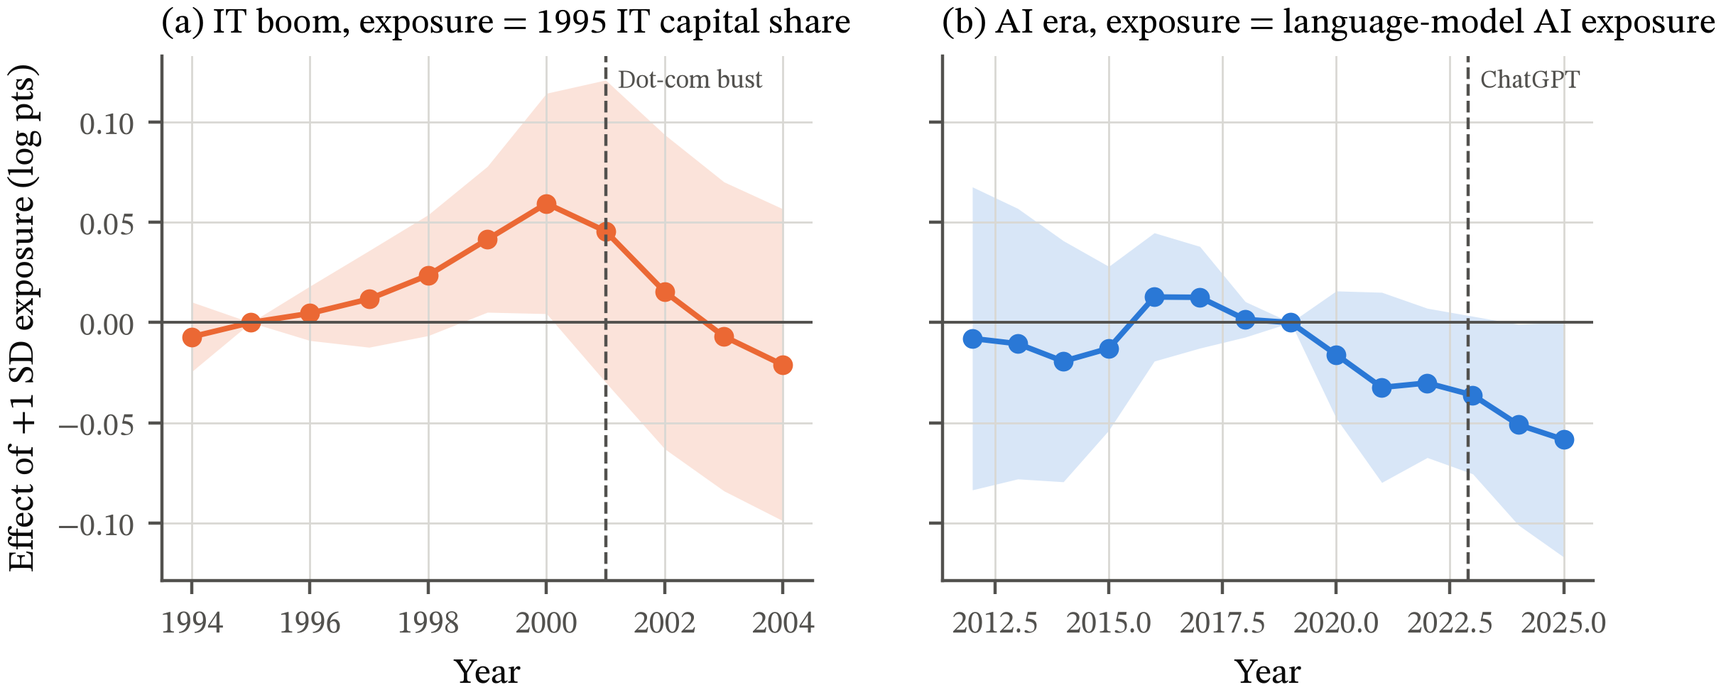
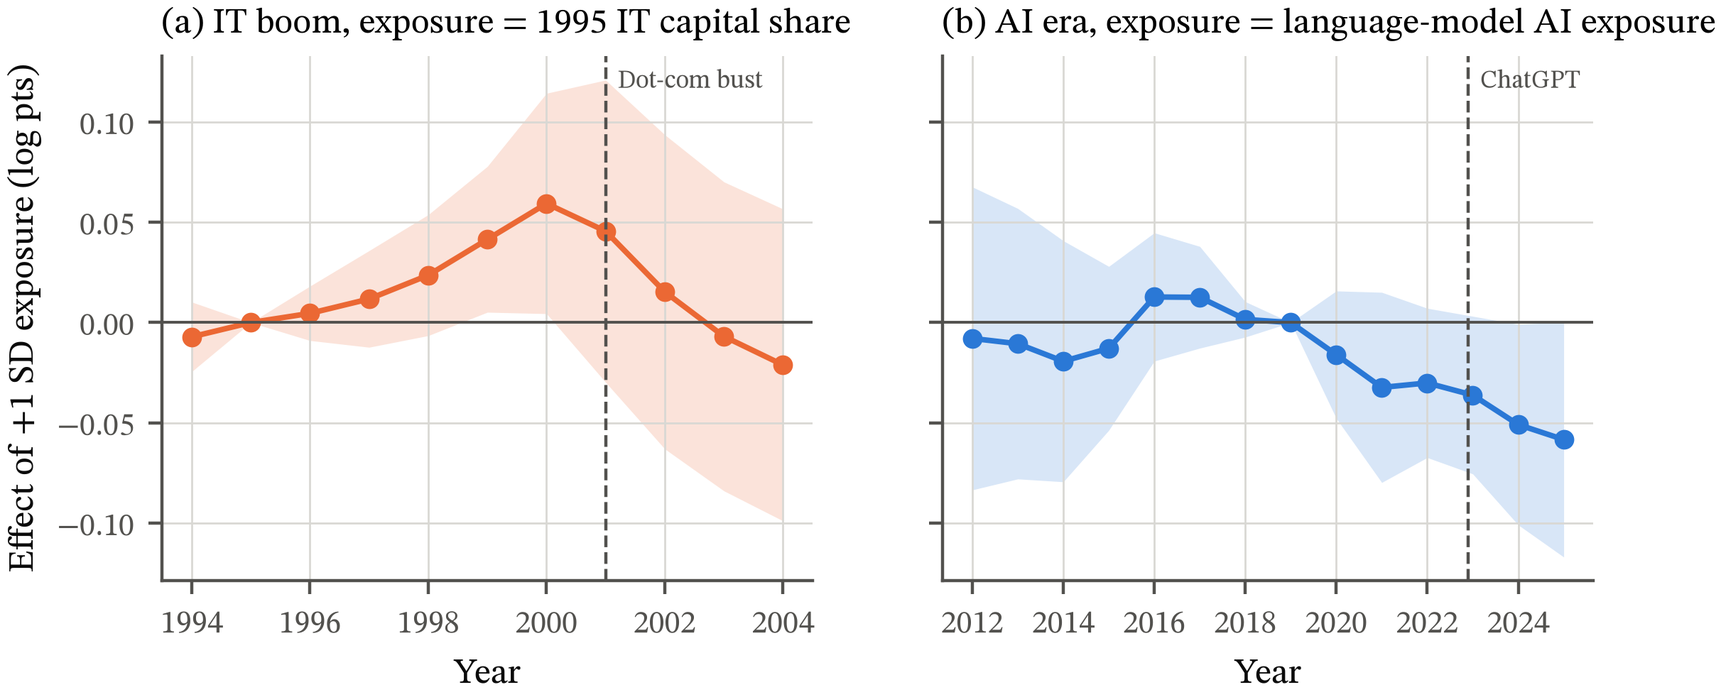
Correct the C3 reading, report both kink specifications, remove sizing look-ahead
- C3: add labor-share level DiD and a year-by-year event study; the
  change-based estimate is driven by a 2021-22 spike unwinding, so the paper
  now treats incidence as inconclusive and leads with the junior-hiring result
- Kink table shows the main (COVID dropped) and linear-through-COVID
  specifications side by side
- Bayesian sizing holds a zero position until 12 months are observed
  instead of using the full-sample variance
- Abstract, summary, results and conclusion reworded to match; integer
  year ticks on event-study figures

Changed region(s): [[0.5572, 0.8248, 0.9286, 0.9165]]

diff --git a/paper/sections/05_results.tex b/paper/sections/05_results.tex
@@ -1,7 +1,7 @@
 \section{Results}
 \label{sec:results}
 
-Table~\ref{tab:did} reports every estimate of~\eqref{eq:did}; Figure~\ref{fig:claims} plots the three headline coefficients side by side for the two eras. The short version: the AI era looks nothing like the IT boom in the labor data, and the difference points to substitution.
+Table~\ref{tab:did} reports every estimate of~\eqref{eq:did}; Figure~\ref{fig:claims} plots the three headline coefficients side by side for the two eras. The short version: the AI era looks nothing like the IT boom in hiring, and the difference points to substitution at the entry margin; whether the gain reaches shareholders is not yet visible.
 
 \begin{table}[t]
 \caption{Difference-in-differences estimates of~\eqref{eq:did}. Each coefficient is the change in the outcome during the era, relative to baseline, for a sector one standard deviation more exposed. Standard errors are clustered by sector; $p_{\text{boot}}$ is from the wild cluster bootstrap (Webb weights, 1,999 replications). C1 and C3: 13 sectors, annual. C2: 19 sectors, quarterly.}
@@ -18,7 +18,7 @@ Table~\ref{tab:did} reports every estimate of~\eqref{eq:did}; Figure~\ref{fig:cl
 
 \subsection{C1: no productivity acceleration yet}
 
-Output per hour did not accelerate faster in AI-exposed sectors. The AI-era coefficient is $-0.26$ percentage points per year per standard deviation, with a standard error of 1.42 and a bootstrap $p$ of 0.96. In the IT boom the estimate is $+0.49$, positive as \citet{stiroh2002it} found but imprecise with 13 sectors ($p=0.26$). We read the AI-era null with care. It is a statement about measured output: when a firm buys an AI service, the purchase is an intermediate input and is subtracted from the firm's value added (Assignment~1, Question~1). A firm that uses AI to replace a junior analyst may produce the same output with fewer hours, which raises output per hour, or the same hours with a higher bill for purchased services, which does not. Measured productivity in the user industry then understates the gain, which is consistent with the J-curve argument of \citet{brynjolfsson2021jcurve}. Our earlier descriptive table, which suggested a white-collar productivity surge, did not survive the switch to all-employee hours and the inclusion of time effects; we discarded it.
+Output per hour did not accelerate faster in AI-exposed sectors. The AI-era coefficient is $-0.26$ percentage points per year per standard deviation, with a standard error of 1.42 and a bootstrap $p$ of 0.96. In the IT boom the estimate is $+0.49$, positive as \citet{stiroh2002it} found but imprecise with 13 sectors ($p=0.26$). We read the AI-era null with care. It is a statement about measured output: when a firm buys an AI service, the purchase is an intermediate input and is subtracted from the firm's value added (Assignment~1, Question~1). A firm that uses AI to replace a junior analyst may produce the same output with fewer hours, which raises output per hour, or the same hours with a higher bill for purchased services, which does not. Measured productivity in the user industry then understates the gain, which is consistent with the J-curve argument of \citet{brynjolfsson2021jcurve}. Raw comparisons of white-collar productivity growth before and after 2022 do suggest an acceleration, but they rely on nonsupervisory hours and on aggregate time effects; once all-employee hours and period fixed effects are used, the gradient disappears.
 
 \subsection{C2: the missing juniors}
 
@@ -34,27 +34,34 @@ The clearest result is in employment by age. In the AI era, a sector one standar
 Timing matters for attribution, and Figure~\ref{fig:eventstudy} shows it. Panel (b) is flat from 2012 to 2019, so exposed sectors were not already shedding juniors. The decline starts in 2020, before ChatGPT, and continues through 2025. Panel (a) is a useful warning: in the IT boom, juniors in IT-intensive sectors gained through 2000 and lost those gains in the dot-com bust. Junior employment is cyclical; a hiring freeze in rate-sensitive sectors can look like technology.
 
 \begin{table}[t]
-\caption{Did the trend bend at ChatGPT? Each row is a term interacted with standardized AI exposure; COVID years (2020--2021) are dropped. The junior gap regression controls for sector size. Bootstrap $p$-values as in Table~\ref{tab:did}.}
+\caption{Did the trend bend at ChatGPT? Each row is a term interacted with standardized AI exposure. ``COVID dropped'' (main specification) excludes 2020--2021 and allows a pre-existing trend, a post-COVID level shift and a post-ChatGPT change in slope. ``Linear'' keeps 2020--2021 and fits one slope from 2020 plus a post-ChatGPT change. Junior-gap regressions control for sector size. Bootstrap $p$-values as in Table~\ref{tab:did}.}
 \label{tab:kink}
 \inserttable{tab_kink}
 \end{table}
 
-Table~\ref{tab:kink} separates the two stories. With COVID years dropped, exposed sectors show no pre-existing trend (0.0002 per year), a post-COVID level drop of 5.6 log points ($p<0.01$), and an \emph{additional} decline of 1.2 log points per year after ChatGPT ($p=0.01$). The level shift is consistent with remote work and the 2022 hiring freeze; the post-ChatGPT slope is what a substitution story predicts. This conclusion depends on how the COVID years are handled: an earlier specification that fitted a straight line through 2020--2022 averaged the crash and recovery into a single slope and found no post-ChatGPT kink. We report both, and treat the kink as suggestive rather than settled.
+Table~\ref{tab:kink} tries to separate the two stories, and the answer depends on the specification. In our main specification, which drops the COVID years as every other estimate in this paper does, exposed sectors show no pre-existing trend (0.0002 per year), a post-COVID level drop of 5.6 log points ($p<0.01$), and an \emph{additional} decline of 1.2 log points per year after ChatGPT ($p=0.01$). The level shift is most of the effect, and we cannot attribute it: remote work, the 2022 hiring freeze in rate-sensitive sectors, and early automation all fit. The post-ChatGPT slope is what a substitution story predicts. Our first specification, however, kept the COVID years and fitted a single slope from 2020; it averages the crash and recovery of Figure~\ref{fig:raw-junior} into one line and finds the opposite, a post-ChatGPT \emph{flattening} (+1.6 log points per year, $p=0.09$). We prefer the main specification because the V-shape is plainly not linear, but we chose it after seeing the first, so we treat the ChatGPT kink as suggestive rather than settled.
 
 Total employment tells a different story from employment by age. Across 91 detailed CES industries, AI exposure predicts no change in total employment: no level shift, no kink (Table~\ref{tab:kink}, right columns; Figure~\ref{fig:detailed} in the appendix). AI is not, so far, reducing headcount in exposed industries; it is changing who is hired.
 
-\subsection{C3: who gets paid}
+\subsection{C3: who gets paid, not yet visible}
 
-The labor share answers the incidence question. In the AI era, a sector one standard deviation more exposed saw its labor share fall by 0.81 percentage points per year relative to baseline (bootstrap $p<0.01$); in the IT boom the estimate is zero (0.006, $p=0.99$). Because finance has by far the highest exposure, and its margins rose with interest rates in 2023--24 for reasons unrelated to AI, we re-estimate the model dropping one sector at a time. The coefficient stays between $-0.61$ (without finance) and $-0.85$, and every bootstrap $p$ stays below 0.01. Value-added prices in exposed sectors did not fall relative to others (+2.2 pp per year, $p=0.26$), so the gain was not passed on to consumers.
+The labor share should answer the incidence question; on current data it does not. Measured as annual \emph{changes}, the result looks strong: in the AI era a sector one standard deviation more exposed saw its labor share fall by 0.81 percentage points per year relative to baseline (bootstrap $p<0.01$), the coefficient stays between $-0.61$ and $-0.85$ when any single sector is dropped, and the IT-era estimate is zero. Measured in \emph{levels}, the result disappears ($-0.47$ pp, $p=0.83$; Table~\ref{tab:did}). Figure~\ref{fig:c3event} shows why. Exposed sectors' labor share drifted down relative to others before 2019, jumped by about 2 percentage points in 2021--22, and has since fallen back to roughly its 2019 level ($-0.6$ pp in 2025, well within the confidence band). The negative changes after 2022 are mostly that spike unwinding. Value-added prices in exposed sectors did not fall relative to others (+2.2 pp per year, $p=0.26$), so there is no sign that a gain was passed to consumers either; there is simply no clear gain yet.
+
+\begin{figure}[t]
+  \centering
+  \includegraphics[width=0.55\textwidth]{fig10_labor_share_event_study.png}
+  \caption{Event study of the labor share level on AI exposure: the effect of one standard deviation of exposure in each year relative to 2019, in percentage points, with 95\% intervals. 2020--2022 are included here to show the COVID spike that drives the change-based estimate.}
+  \label{fig:c3event}
+\end{figure}
 
 \subsection{Reading the three together}
 
-The pieces fit one story. AI-exposed sectors are hiring fewer juniors, are not shrinking overall, are not (yet) producing measurably more per hour, and are paying a smaller share of their value added to labor. That is substitution at the entry margin, with the gain accruing to capital: the routine tasks of junior staff are being done by purchased AI services and by the seniors who remain. The IT boom, by contrast, looked like complementarity. For an investor this is a cash-flow signal (margins in exposed sectors should be higher than their measured productivity suggests), which brings us to whether prices reflect it.
+AI-exposed sectors are hiring fewer juniors, are not shrinking overall, and are not (yet) producing measurably more per hour; whether they are paying a smaller share of value added to labor cannot be told apart from the unwinding of a COVID-era spike. The hiring pattern is what substitution at the entry margin predicts: the codified tasks of junior staff may be done by purchased AI services and by the seniors who remain. These are associations across 13 to 19 sectors, though, and other explanations remain open. Rate-sensitive sectors froze graduate hiring in 2022--23 for reasons unrelated to AI, and a falling labor share with flat productivity and rising prices could equally reflect rising markups and pricing power \citep{autor2020superstar}. The IT boom, by contrast, looked like complementarity. For an investor, the hiring data are an early, slow signal about cash flows that the BEA data have not yet confirmed, which brings us to whether prices reflect it.
 
 \subsection{Pooling the IT prior with AI-era evidence}
 \label{sec:bayes}
 
-How much should the IT boom inform our reading of AI? We treat the IT-era estimate as a prior for the AI-era coefficient, $\beta_{AI} \sim N(\hat\beta_{IT}, \mathrm{se}_{IT}^2 + \tau^2)$, where $\tau$ measures how different we allow AI to be, and update with the AI-era estimate. Figure~\ref{fig:bayes} traces the posterior as $\tau$ widens. For C3 the AI data dominate even at $\tau=0$: the posterior mean is $-0.70$, because the AI-era estimate is far more precise than the prior. For C2 the conclusion depends on beliefs: if AI is assumed identical to IT the posterior is centered near zero, but once $\tau$ reaches the AI-era standard error the probability that the effect is negative rises to 0.95. For C1 neither era is informative.
+How much should the IT boom inform our reading of AI? We treat the IT-era estimate as a prior for the AI-era coefficient, $\beta_{AI} \sim N(\hat\beta_{IT}, \mathrm{se}_{IT}^2 + \tau^2)$, where $\tau$ measures how different we allow AI to be, and update with the AI-era estimate. Figure~\ref{fig:bayes} traces the posterior as $\tau$ widens. For C3 (in changes) the AI data dominate even at $\tau=0$: the posterior mean is $-0.70$, because the AI-era estimate is far more precise than the prior; given Figure~\ref{fig:c3event}, this precision overstates what we know, and pooling cannot correct a specification problem. For C2 the conclusion depends on beliefs: if AI is assumed identical to IT the posterior is centered near zero, but once $\tau$ reaches the AI-era standard error the probability that the effect is negative rises to 0.95. For C1 neither era is informative.
 
 \begin{figure}[t]
   \centering

diff --git a/paper/sections/06_forward.tex b/paper/sections/06_forward.tex
@@ -14,7 +14,7 @@ Past behavior around the IT boom is a poor template for AI, and our results say 
 D1 & IT automated routine middle-skill tasks; AI targets codified cognitive tasks in white-collar work. & Knowledge work flips from complement to substitute. \emph{Seen:} C2 sign flip. \\
 D2 & IT rewarded computer-literate graduates; AI substitutes for the entry-level tasks that juniors learn on. & Junior--senior gap opens only in the AI era. \emph{Seen:} C2 and the kink test. \\
 D3 & IT required heavy user-side capital and reorganization; AI is rented per use. & Faster adoption, less capital deepening at users. \emph{Not yet tested.} \\
-D4 & Purchased AI services are intermediate inputs; user value added rises only if output rises by more. & Measured user productivity understates gains. \emph{Consistent with} C1 null and C3. \\
+D4 & Purchased AI services are intermediate inputs; user value added rises only if output rises by more. & Measured user productivity understates gains. \emph{Consistent with} the C1 null; not yet testable. \\
 D5 & IT hardware was competitive; AI supply (chips, frontier models) is concentrated. & Producers may capture the gain through pricing, shrinking user margins over time. \emph{Watch:} intermediate-input costs in exposed sectors. \\
 D6 & The Fed let 1990s productivity growth run; 2022--26 is a hiking cycle, with a further hike in September 2026. & Hiring freezes in rate-sensitive sectors mimic substitution; discount-rate effects dominate returns. \emph{Seen:} C4 rate loading. \\
 \bottomrule
@@ -26,4 +26,4 @@ D6 & The Fed let 1990s productivity growth run; 2022--26 is a hiking cycle, with
 
 \paragraph{What would change our view.} Three developments would make the trade more attractive: (i) a measurable productivity acceleration in exposed user industries, which would confirm that the margin gains are durable; (ii) evidence that AI vendors are \emph{not} capturing the surplus (falling per-unit AI prices that do not raise user input costs); and (iii) an easing cycle, which would reduce the rate component of sector returns. A reversal of the junior decline as the 2026 graduating class is absorbed would weaken the substitution reading altogether.
 
-\paragraph{The bubble question.} The IT boom delivered real productivity gains and a crash in the stocks of the firms that sold the technology. Our evidence suggests a version of the same split: the economic gain from AI so far appears in the margins of the industries that \emph{use} it, while equity attention sits with the firms that \emph{sell} it. An investor worried about an AI valuation bubble in producers can hold the users whose labor data show substitution as a partial hedge; the hedge has economic logic even though, as the next section shows, it has not earned excess returns on its own.
+\paragraph{The bubble question.} The IT boom delivered real productivity gains and a crash in the stocks of the firms that sold the technology. If AI follows the same path, the economic gain will show up in the industries that \emph{use} it while equity attention sits with the firms that \emph{sell} it. Our hiring evidence says user industries are already reorganizing work; our BEA evidence says the gain has not yet reached their measured output or their margins. An investor worried about an AI valuation bubble in producers could hold the users whose labor data show substitution as a partial hedge; the hedge has economic logic, but as the next section shows it has not earned excess returns on its own.

diff --git a/src/aiprod/inference.py b/src/aiprod/inference.py
@@ -106,20 +106,23 @@ def years_since(dates: pd.Series, start: str) -> pd.Series:
 
 
 def kink_test(
-    frame: pd.DataFrame, outcome: str, unit: str, exposure: str, controls: tuple[str, ...] = ()
+    frame: pd.DataFrame, outcome: str, unit: str, exposure: str,
+    controls: tuple[str, ...] = (), drop_covid: bool = True,
 ) -> pd.DataFrame:
-    """Did the exposure gradient bend at ChatGPT, relative to its pre-2020 trend?
+    """Did the exposure gradient bend at ChatGPT?
 
-    COVID quarters (2020-2021) are dropped, as everywhere else in the project:
-    exposed sectors crashed and recovered in a V that a straight line would
-    misread. Three terms enter, each interacted with standardized exposure:
+    Main specification (``drop_covid=True``): COVID years (2020-2021) are
+    dropped, as everywhere else in the project, because exposed sectors crashed
+    and recovered in a V. Three terms enter, each interacted with standardized
+    exposure:
 
     * ``trend`` (years since 2015): the pre-existing slope;
     * ``post_covid`` (1 from 2022): a level shift for lasting COVID scarring;
     * ``ramp_chatgpt`` (years since 2022Q4): the *change* in slope after ChatGPT.
 
-    A gen-AI substitution story predicts a negative ``ramp_chatgpt``; a pure
-    COVID or remote-work story predicts a level shift but no new slope.
+    Alternative (``drop_covid=False``): COVID years kept, with a straight line
+    from 2020 (``ramp_2020``) plus ``ramp_chatgpt``. This was our first
+    specification; it averages the V into one slope. Both are reported.
 
     Args:
         frame (pd.DataFrame): Panel with ``unit``, ``date``, ``outcome``,
@@ -128,22 +131,29 @@ def kink_test(
         unit (str): Industry column (also the cluster).
         exposure (str): Raw exposure column; standardized across units here.
         controls (tuple[str, ...]): Extra regressors.
+        drop_covid (bool): Use the main specification (True) or the alternative.
 
     Returns:
         pd.DataFrame: Rows for each term with ``beta`` (per year, or level for
         ``post_covid``, per SD of exposure), ``t`` and ``p_boot``.
     """
-    in_sample = (frame["date"] >= "2015-01-01") & ~frame["date"].dt.year.isin([2020, 2021])
+    in_sample = frame["date"] >= "2015-01-01"
+    if drop_covid:
+        in_sample &= ~frame["date"].dt.year.isin([2020, 2021])
     data = frame[in_sample].copy()
 
     unit_exposure = data.groupby(unit)[exposure].first()
     data["exposure"] = data[unit].map(standardize(unit_exposure))
     data["trend"] = years_since(data["date"], "2015-01-01")
     data["post_covid"] = (data["date"] >= "2022-01-01").astype(int)
+    data["ramp_2020"] = years_since(data["date"], "2020-01-01")
     data["ramp_chatgpt"] = years_since(data["date"], "2022-10-01")
     data = data.dropna(subset=[outcome, "exposure", *controls])
 
-    terms = ("exposure:trend", "exposure:post_covid", "exposure:ramp_chatgpt")
+    if drop_covid:
+        terms = ("exposure:trend", "exposure:post_covid", "exposure:ramp_chatgpt")
+    else:
+        terms = ("exposure:ramp_2020", "exposure:ramp_chatgpt")
     rhs = " + ".join([f"C({unit})", "C(date)", *controls, *terms])
     rows = []
     for term in terms:

diff --git a/paper/sections/08_conclusion.tex b/paper/sections/08_conclusion.tex
@@ -1,8 +1,8 @@
 \section{Conclusion}
 \label{sec:conclusion}
 
-AI is showing up in the macro data, but not where the productivity narrative expects. Measured output per hour in exposed sectors has not accelerated. What has changed is the composition of hiring and the division of income: exposed sectors employ fewer young workers, with a further decline after ChatGPT, and pay a smaller share of value added to labor. The 1995--2004 IT boom shows none of this, which is itself evidence that AI is a different kind of technology for white-collar work.
+AI is showing up in the macro data, but not where the productivity narrative expects. Measured output per hour in exposed sectors has not accelerated, and total employment in exposed industries has not changed. What has changed is the composition of hiring: exposed sectors employ markedly fewer young workers relative to prime-age workers, a pattern that began with COVID and, in our preferred specification, steepened after ChatGPT. The 1995--2004 IT boom shows the opposite sign, which is itself evidence that AI is a different kind of technology for white-collar work. Whether the gain is reaching shareholders is not yet visible; the labor share of exposed sectors has returned to about its 2019 level after a COVID-era spike.
 
-For an investor, the result is a cash-flow story that the market appears to price already, or that is drowned out by rate exposure. A long-short strategy on the junior-substitution signal did not earn excess returns from 1996 to 2026. We would not deploy it as a stand-alone strategy. We would use the signal in two ways: as a filter when choosing among AI-exposed equities (prefer the users whose labor data show substitution over those priced on promise), and as an early warning, since a reversal of the junior decline or a rise in AI input costs would signal that the margin gains are fading.
+For an investor, the result is an early labor-market signal that has not yet become a cash-flow signal, and that is drowned out by rate exposure at sector level. A long-short strategy on the junior-substitution signal did not earn excess returns from 1996 to 2026. We would not deploy it as a stand-alone strategy. We would use the signal in two ways: as a filter when choosing among AI-exposed equities, and as an early warning. A clear fall in the labor share of exposed sectors over 2026--27 would turn the signal into a cash-flow story worth trading; a reversal of the junior decline would argue that the 2022--25 pattern was cyclical after all.
 
-Four extensions would sharpen the analysis: event windows around BEA and QWI release dates using daily returns; employment-weighted exposure; firm-level labor data, which would replace 16 sector portfolios with hundreds of stocks; and a signal built from the labor share itself, which is closer to cash flows than the junior gap.
+Four extensions would sharpen the analysis: event windows around BEA and QWI release dates using daily returns; employment-weighted exposure; firm-level labor and margin data, which would replace 16 sector portfolios with hundreds of stocks; and a markup measure that separates pricing power from substitution in the labor share.

diff --git a/paper/sections/07_strategy.tex b/paper/sections/07_strategy.tex
@@ -24,6 +24,6 @@
 
 \paragraph{Results.} Table~\ref{tab:strategy} and Figure~\ref{fig:strategy} report the backtest. The substitution signal loses 1.8\% a year with a Sharpe ratio of $-0.19$; its factor-adjusted alpha ($-1.6\%$, $t=-1.0$) is indistinguishable from zero. After ChatGPT the loss widens to 3.6\% a year and the returns load positively on the 2-year yield ($t=2.6$): the long side (substituting sectors) did better when rates rose, which is the discount-rate confound we expected. The Bayesian overlay learns to lean the other way for most of the period after 2000, which cuts volatility to 5.6\% and limits the drawdown to 28\%, but it earns nothing either. The AI-exposure benchmark is worse: $-2.5\%$ a year with a 71\% maximum drawdown, driven by 2008 and by 2022.
 
-\paragraph{Why the result is negative, and why we stand by the analysis.} Three explanations fit the evidence. First, the market may already price the cash-flow signal: the labor share is published by BEA with a lag of under a year, and analysts see margins quarterly in earnings, well before our 12-month-lagged QWI signal arrives. Second, sector returns are dominated by rate exposure in exactly the sectors we care about; with policy rates moving several hundred basis points in 2022--26, a cash-flow effect of a few percent a year is hard to detect in 16 portfolios. Third, the signal is noisy: turnover is about 127\% a year because quarterly changes in the junior gap are volatile. None of these says the real-side results are wrong. They say the real-side results are not, at sector level and with a one-year lag, a trading edge.
+\paragraph{Why the result is negative, and why we stand by the analysis.} Three explanations fit the evidence. First, there may be no cash-flow signal to price yet: Section~\ref{sec:results} finds no clear change in the labor share of exposed sectors once the COVID spike is accounted for; and where margins do move, analysts see them quarterly in earnings, well before our 12-month-lagged QWI signal arrives. Second, sector returns are dominated by rate exposure in exactly the sectors we care about; with policy rates moving several hundred basis points in 2022--26, a cash-flow effect of a few percent a year is hard to detect in 16 portfolios. Third, the signal is noisy: turnover is about 127\% a year because quarterly changes in the junior gap are volatile. None of these says the real-side results are wrong. They say the real-side results are not, at sector level and with a one-year lag, a trading edge.
 
 \paragraph{Implementation and risk.} If deployed, we would trade sector ETFs, hedge the 2-year rate exposure with Treasury futures sized by each sector's trailing rate beta, smooth the signal over eight quarters to cut turnover, and use the monthly nowcast to reduce the lag. Position limits and the Bayesian sizing cap drawdowns; the main residual risk is a regime change in rate policy that moves exposed sectors together.

diff --git a/paper/main.tex b/paper/main.tex
@@ -36,7 +36,7 @@
 
 \begin{singlespace}
 \begin{abstract}
-\noindent Generative AI is a shock to the production function, and the question that matters for prices is who collects the gain. Where AI substitutes for labor the gain should show up in margins; where it complements labor it should show up in wages. We read the answer from scheduled macro releases (BEA GDP by industry, the BLS employment report, and Census QWI employment by age), and we test every claim twice: once on the 1995--2004 IT boom, which serves as a historical prior, and once on the post-ChatGPT era. Three findings stand out. AI-exposed sectors show no measurable acceleration in output per hour; they do show a sharp relative decline in employment of 22--24 year-olds, with a further downward kink after ChatGPT; and their labor share has fallen by roughly 0.8 percentage points per year per standard deviation of exposure, a result that survives dropping any single sector. The IT boom shows none of this. The pattern is substitution at the entry margin with gains accruing to capital. A sector-rotation strategy built on the junior-hiring signal, however, does not earn excess returns after factor and interest-rate controls. We present this as a defended negative result and outline the conditions under which the trade would become viable.
+\noindent Generative AI is a shock to the production function, and the question that matters for prices is who collects the gain. Where AI substitutes for labor the gain should show up in margins; where it complements labor it should show up in wages. We read the answer from scheduled macro releases (BEA GDP by industry, the BLS employment report, and Census QWI employment by age), and we test every claim twice: once on the 1995--2004 IT boom, which serves as a historical prior, and once on the post-ChatGPT era. The clearest finding is in hiring: AI-exposed sectors employ markedly fewer 22--24 year-olds relative to prime-age workers, holding sector size fixed, while total employment in exposed industries is unchanged; in the IT boom the sign was the opposite. Part of this decline is a post-COVID level shift we cannot attribute; the part that begins after ChatGPT is smaller and suggestive. Output per hour shows no AI-related acceleration, and the labor share of exposed sectors, after rising in 2021--22, has fallen back only to roughly its 2019 level, so we cannot yet say who is collecting the gain. A sector-rotation strategy built on the junior-hiring signal does not earn excess returns after factor and interest-rate controls. We present this as a defended negative result and set out what would make the trade viable.
 \end{abstract}
 \end{singlespace}
 

diff --git a/src/aiprod/tables.py b/src/aiprod/tables.py
@@ -15,13 +15,16 @@ DID_ROWS = [
     ("C2", "hire_gap", "Junior hiring gap"),
     ("C2", "hire_gap|log_emp_total", "\\quad given sector size"),
     ("C3", "labor_share_change", "Labor share change (pp/yr)"),
+    ("C3", "labor_share", "Labor share level (pp)"),
     ("C3", "price_growth", "Value-added price growth (pp/yr)"),
 ]
 KINK_TERMS = {
     "exposure:trend": "Pre-existing trend (per year)",
+    "exposure:ramp_2020": "Slope from 2020 (per year)",
     "exposure:post_covid": "Post-COVID level shift",
     "exposure:ramp_chatgpt": "Change in slope after ChatGPT (per year)",
 }
+KINK_PANELS = ["QWI sectors", "QWI sectors, linear through COVID", "CES detailed industries"]
 
 
 SHORT_NAMES = {
@@ -67,21 +70,25 @@ def did_table(estimates: pd.DataFrame) -> None:
 
 
 def kink_table(kinks: pd.DataFrame) -> None:
-    """ChatGPT kink test for the QWI junior gap and for detailed-industry employment."""
-    panels = ["QWI sectors", "CES detailed industries"]
+    """ChatGPT kink test: main and alternative specifications, plus total employment."""
     lines = [
-        "\\begin{tabular}{lrrrr}",
+        "\\begin{tabular}{lrrrrrr}",
         "\\toprule",
-        " & \\multicolumn{2}{c}{Junior gap (19 sectors)} & \\multicolumn{2}{c}{Employment (91 industries)} \\\\",
-        "\\cmidrule(lr){2-3} \\cmidrule(lr){4-5}",
-        "Term $\\times$ exposure & $\\hat\\beta$ & $p_{\\text{boot}}$ & $\\hat\\beta$ & $p_{\\text{boot}}$ \\\\",
+        " & \\multicolumn{2}{c}{Junior gap, COVID dropped} & \\multicolumn{2}{c}{Junior gap, linear} "
+        "& \\multicolumn{2}{c}{Employment, 91 ind.} \\\\",
+        "\\cmidrule(lr){2-3} \\cmidrule(lr){4-5} \\cmidrule(lr){6-7}",
+        "Term $\\times$ exposure & $\\hat\\beta$ & $p_{\\text{boot}}$ & $\\hat\\beta$ & $p_{\\text{boot}}$ "
+        "& $\\hat\\beta$ & $p_{\\text{boot}}$ \\\\",
         "\\midrule",
     ]
     for term, label in KINK_TERMS.items():
         cells = []
-        for panel in panels:
-            row = kinks[(kinks["panel"] == panel) & (kinks["term"] == term)].iloc[0]
-            cells += [num(row["beta"], ".4f"), p_text(row["p_boot"])]
+        for panel in KINK_PANELS:
+            match = kinks[(kinks["panel"] == panel) & (kinks["term"] == term)]
+            if match.empty:
+                cells += ["--", ""]
+            else:
+                cells += [num(match.iloc[0]["beta"], ".4f"), p_text(match.iloc[0]["p_boot"])]
         lines.append(f"{label} & " + " & ".join(cells) + " \\\\")
     lines += ["\\bottomrule", "\\end{tabular}"]
     write("tab_kink", lines)

diff --git a/paper/sections/01_executive_summary.tex b/paper/sections/01_executive_summary.tex
@@ -9,4 +9,4 @@
 
 \paragraph{Core strategy.} Rank sectors each month on a substitution score (how fast juniors are losing ground relative to prime-age workers in that sector), go long the top ranks and short the bottom ranks with dollar-neutral rank weights, and size the position with a real-time Bayesian posterior that starts agnostic about the sign. Interest-rate exposure is measured explicitly, because AI-exposed sectors behave like long-duration assets.
 
-\paragraph{What we find.} The real-side evidence is strong and the pricing evidence is not. AI-exposed sectors show (i) no acceleration in measured output per hour, (ii) a relative decline of roughly 7 log points in junior employment per standard deviation of exposure, with an additional post-ChatGPT decline of about 1.2 log points a year, and (iii) a falling labor share, about 0.8 percentage points per year per standard deviation of exposure (bootstrap $p<0.01$). None of these patterns appears in the IT boom. The long-short strategy, however, earns a Sharpe ratio of $-0.19$ over 1996--2026 and no significant alpha. Our recommendation is to treat the substitution signal as a risk lens on AI-exposed equities rather than as a stand-alone alpha source, for reasons laid out in Sections~\ref{sec:forward} and~\ref{sec:strategy}.
+\paragraph{What we find.} The hiring evidence is clear, the incidence evidence is not yet, and the pricing evidence is negative. (i) AI-exposed sectors employ about 7 log points fewer 22--24 year-olds, relative to prime-age workers and per standard deviation of exposure, than before 2020, holding sector size fixed (bootstrap $p=0.01$); the IT boom shows the opposite sign. Most of this is a post-COVID level shift that may reflect remote work or the 2022 hiring freeze; an additional decline of about 1.2 log points a year after ChatGPT is suggestive but sensitive to how the COVID years are treated. (ii) Total employment in exposed industries has not changed, and measured output per hour has not accelerated. (iii) The labor share of exposed sectors rose in 2021--22 and has since fallen back to roughly its 2019 level; on current data we cannot distinguish rising margins from a reversal of the COVID spike. (iv) The long-short strategy earns a Sharpe ratio of $-0.19$ over 1996--2026 and no significant alpha. Our recommendation is to treat the substitution signal as a monitoring tool for AI-exposed equities rather than as a stand-alone alpha source (Sections~\ref{sec:forward} and~\ref{sec:strategy}).

diff --git a/src/aiprod/run.py b/src/aiprod/run.py
@@ -45,10 +45,18 @@ def real_side(sector_exp: pd.DataFrame, naics_exp: pd.DataFrame) -> dict[str, pd
         claims.annual_era_did(annual, sector_exp, "growth", "C1")
         + claims.c2_junior_employment(gaps, naics_exp)
         + claims.annual_era_did(incidence, sector_exp, "labor_share_change", "C3")
+        + claims.annual_era_did(incidence, sector_exp, "labor_share", "C3")
         + claims.annual_era_did(incidence, sector_exp, "price_growth", "C3")
     )
     estimates = pd.DataFrame([asdict(e) for e in estimates])
     save_table(estimates, "did_estimates")
+
+    # Pre-trend check for C3: labor share level by year (AI exposure, base 2019).
+    c3_study = claims.event_study(
+        incidence[incidence["date"].dt.year.between(2010, 2025)], "labor_share", "sector",
+        sector_exp["ai_exposure"], 2019,
+    )
+    save_table(c3_study, "c3_event_study")
 
     # Pre-trend checks: junior gap by year, both eras.
     eras = {"AI": (2012, 2026, 2019, "ai_exposure"), "IT": (1994, 2004, 1995, "it_share")}
@@ -64,6 +72,8 @@ def real_side(sector_exp: pd.DataFrame, naics_exp: pd.DataFrame) -> dict[str, pd
         inference.kink_test(gaps_with_exposure, "emp_gap", "industry", "ai_exposure", ("log_emp_total",))
         .assign(panel="QWI sectors"),
         inference.kink_test(detailed, "log_emp", "naics", "ai_exposure").assign(panel="CES detailed industries"),
+        inference.kink_test(gaps_with_exposure, "emp_gap", "industry", "ai_exposure", ("log_emp_total",),
+                            drop_covid=False).assign(panel="QWI sectors, linear through COVID"),
     ])
     save_table(kinks, "kink_tests")
 
@@ -74,7 +84,7 @@ def real_side(sector_exp: pd.DataFrame, naics_exp: pd.DataFrame) -> dict[str, pd
     save_table(detailed_study, "detailed_event_study")
 
     return {"estimates": estimates, "studies": studies, "gaps": gaps, "incidence": incidence,
-            "detailed": detailed, "detailed_study": detailed_study, "kinks": kinks}
+            "detailed": detailed, "detailed_study": detailed_study, "kinks": kinks, "c3_study": c3_study}
 
 
 def pricing(gaps: pd.DataFrame, naics_exp: pd.DataFrame) -> dict[str, pd.DataFrame]:
@@ -135,6 +145,7 @@ def main() -> None:
     plots.strategy_paths(priced["strategies"], priced["size"])
     plots.bayesian_pooling(posteriors, POOLED_LABELS)
     plots.exposure_overlap(sector_exp)
+    plots.c3_event_study(real["c3_study"])
 
     tables.did_table(real["estimates"])
     tables.kink_table(real["kinks"])

diff --git a/paper/sections/02_motivation.tex b/paper/sections/02_motivation.tex
@@ -28,4 +28,4 @@ Three strands of evidence motivate our claims. First, early work on AI and labor
   \label{fig:raw}
 \end{figure}
 
-Figure~\ref{fig:raw} shows the two raw facts that the rest of the paper tests. In high-exposure sectors the junior employment gap collapsed in 2020, recovered through 2022, and has fallen steadily since ChatGPT's release in November 2022; low-exposure sectors show no such pattern. The labor share of high-exposure sectors, which sat above that of low-exposure sectors for most of the last two decades, has fallen below it since 2023. Both pictures are descriptive. A common shock (the 2022--23 rate cycle, for instance) could produce either, and the high-exposure group is dominated by finance and information, whose margins respond to interest rates for reasons that have nothing to do with AI. The empirical design in Section~\ref{sec:data} exists to separate these stories.
+Figure~\ref{fig:raw} shows the two raw facts that the rest of the paper tests. In high-exposure sectors the junior employment gap collapsed in 2020, recovered through 2022, and has fallen steadily since ChatGPT's release in November 2022; low-exposure sectors show no such pattern. The labor share of high-exposure sectors, which sat above that of low-exposure sectors for most of the last two decades and drifted down towards it before 2019, rose in 2020--21 and has fallen since 2022, dropping below the low-exposure group only in 2025. Both pictures are descriptive. A common shock (the 2022--23 rate cycle, for instance) could produce either, and the high-exposure group is dominated by finance and information, whose margins respond to interest rates for reasons that have nothing to do with AI. The empirical design in Section~\ref{sec:data} exists to separate these stories.

diff --git a/src/aiprod/strategy.py b/src/aiprod/strategy.py
@@ -151,7 +151,8 @@ def bayesian_sizing(ls: pd.Series, prior_sd: float = 0.005, half_life_months: fl
     monthly returns, exponentially down-weighted with ``half_life_months`` so
     that a regime change (AI is not IT) can overturn old evidence. The size is
     the posterior z-score of mu, clipped to [-1, 1], using only returns
-    observed before the month being traded.
+    observed before the month being traded. The position is zero until 12
+    months of returns have been observed (no variance estimate before that).
 
     Args:
         ls (pd.Series): Monthly long-short returns.
@@ -165,11 +166,14 @@ def bayesian_sizing(ls: pd.Series, prior_sd: float = 0.005, half_life_months: fl
     sizes = {}
     weighted_n, weighted_sum, weighted_sq = 0.0, 0.0, 0.0
 
-    for date, value in ls.items():
-        variance = max(weighted_sq / weighted_n - (weighted_sum / weighted_n) ** 2, 1e-6) if weighted_n > 12 else ls.var()
-        posterior_var = 1 / (1 / prior_sd ** 2 + weighted_n / variance)
-        posterior_mean = posterior_var * weighted_sum / variance
-        sizes[date] = float(np.clip(posterior_mean / np.sqrt(posterior_var), -1, 1))
+    for months_seen, (date, value) in enumerate(ls.items()):
+        if months_seen < 12:
+            sizes[date] = 0.0
+        else:
+            variance = max(weighted_sq / weighted_n - (weighted_sum / weighted_n) ** 2, 1e-6)
+            posterior_var = 1 / (1 / prior_sd ** 2 + weighted_n / variance)
+            posterior_mean = posterior_var * weighted_sum / variance
+            sizes[date] = float(np.clip(posterior_mean / np.sqrt(posterior_var), -1, 1))
 
         weighted_n = decay * weighted_n + 1
         weighted_sum = decay * weighted_sum + value

diff --git a/output/tables/tab_kink.tex b/output/tables/tab_kink.tex
@@ -1,11 +1,12 @@
-\begin{tabular}{lrrrr}
+\begin{tabular}{lrrrrrr}
 \toprule
- & \multicolumn{2}{c}{Junior gap (19 sectors)} & \multicolumn{2}{c}{Employment (91 industries)} \\
-\cmidrule(lr){2-3} \cmidrule(lr){4-5}
-Term $\times$ exposure & $\hat\beta$ & $p_{\text{boot}}$ & $\hat\beta$ & $p_{\text{boot}}$ \\
+ & \multicolumn{2}{c}{Junior gap, COVID dropped} & \multicolumn{2}{c}{Junior gap, linear} & \multicolumn{2}{c}{Employment, 91 ind.} \\
+\cmidrule(lr){2-3} \cmidrule(lr){4-5} \cmidrule(lr){6-7}
+Term $\times$ exposure & $\hat\beta$ & $p_{\text{boot}}$ & $\hat\beta$ & $p_{\text{boot}}$ & $\hat\beta$ & $p_{\text{boot}}$ \\
 \midrule
-Pre-existing trend (per year) & 0.0002 & 0.95 & 0.0004 & 0.90 \\
-Post-COVID level shift & $-$0.0560 & $<$0.01 & 0.0113 & 0.19 \\
-Change in slope after ChatGPT (per year) & $-$0.0124 & 0.01 & $-$0.0006 & 0.87 \\
+Pre-existing trend (per year) & 0.0002 & 0.95 & -- &  & 0.0004 & 0.90 \\
+Slope from 2020 (per year) & -- &  & $-$0.0215 & 0.01 & -- &  \\
+Post-COVID level shift & $-$0.0560 & $<$0.01 & -- &  & 0.0113 & 0.19 \\
+Change in slope after ChatGPT (per year) & $-$0.0124 & 0.01 & 0.0158 & 0.09 & $-$0.0006 & 0.87 \\
 \bottomrule
 \end{tabular}
